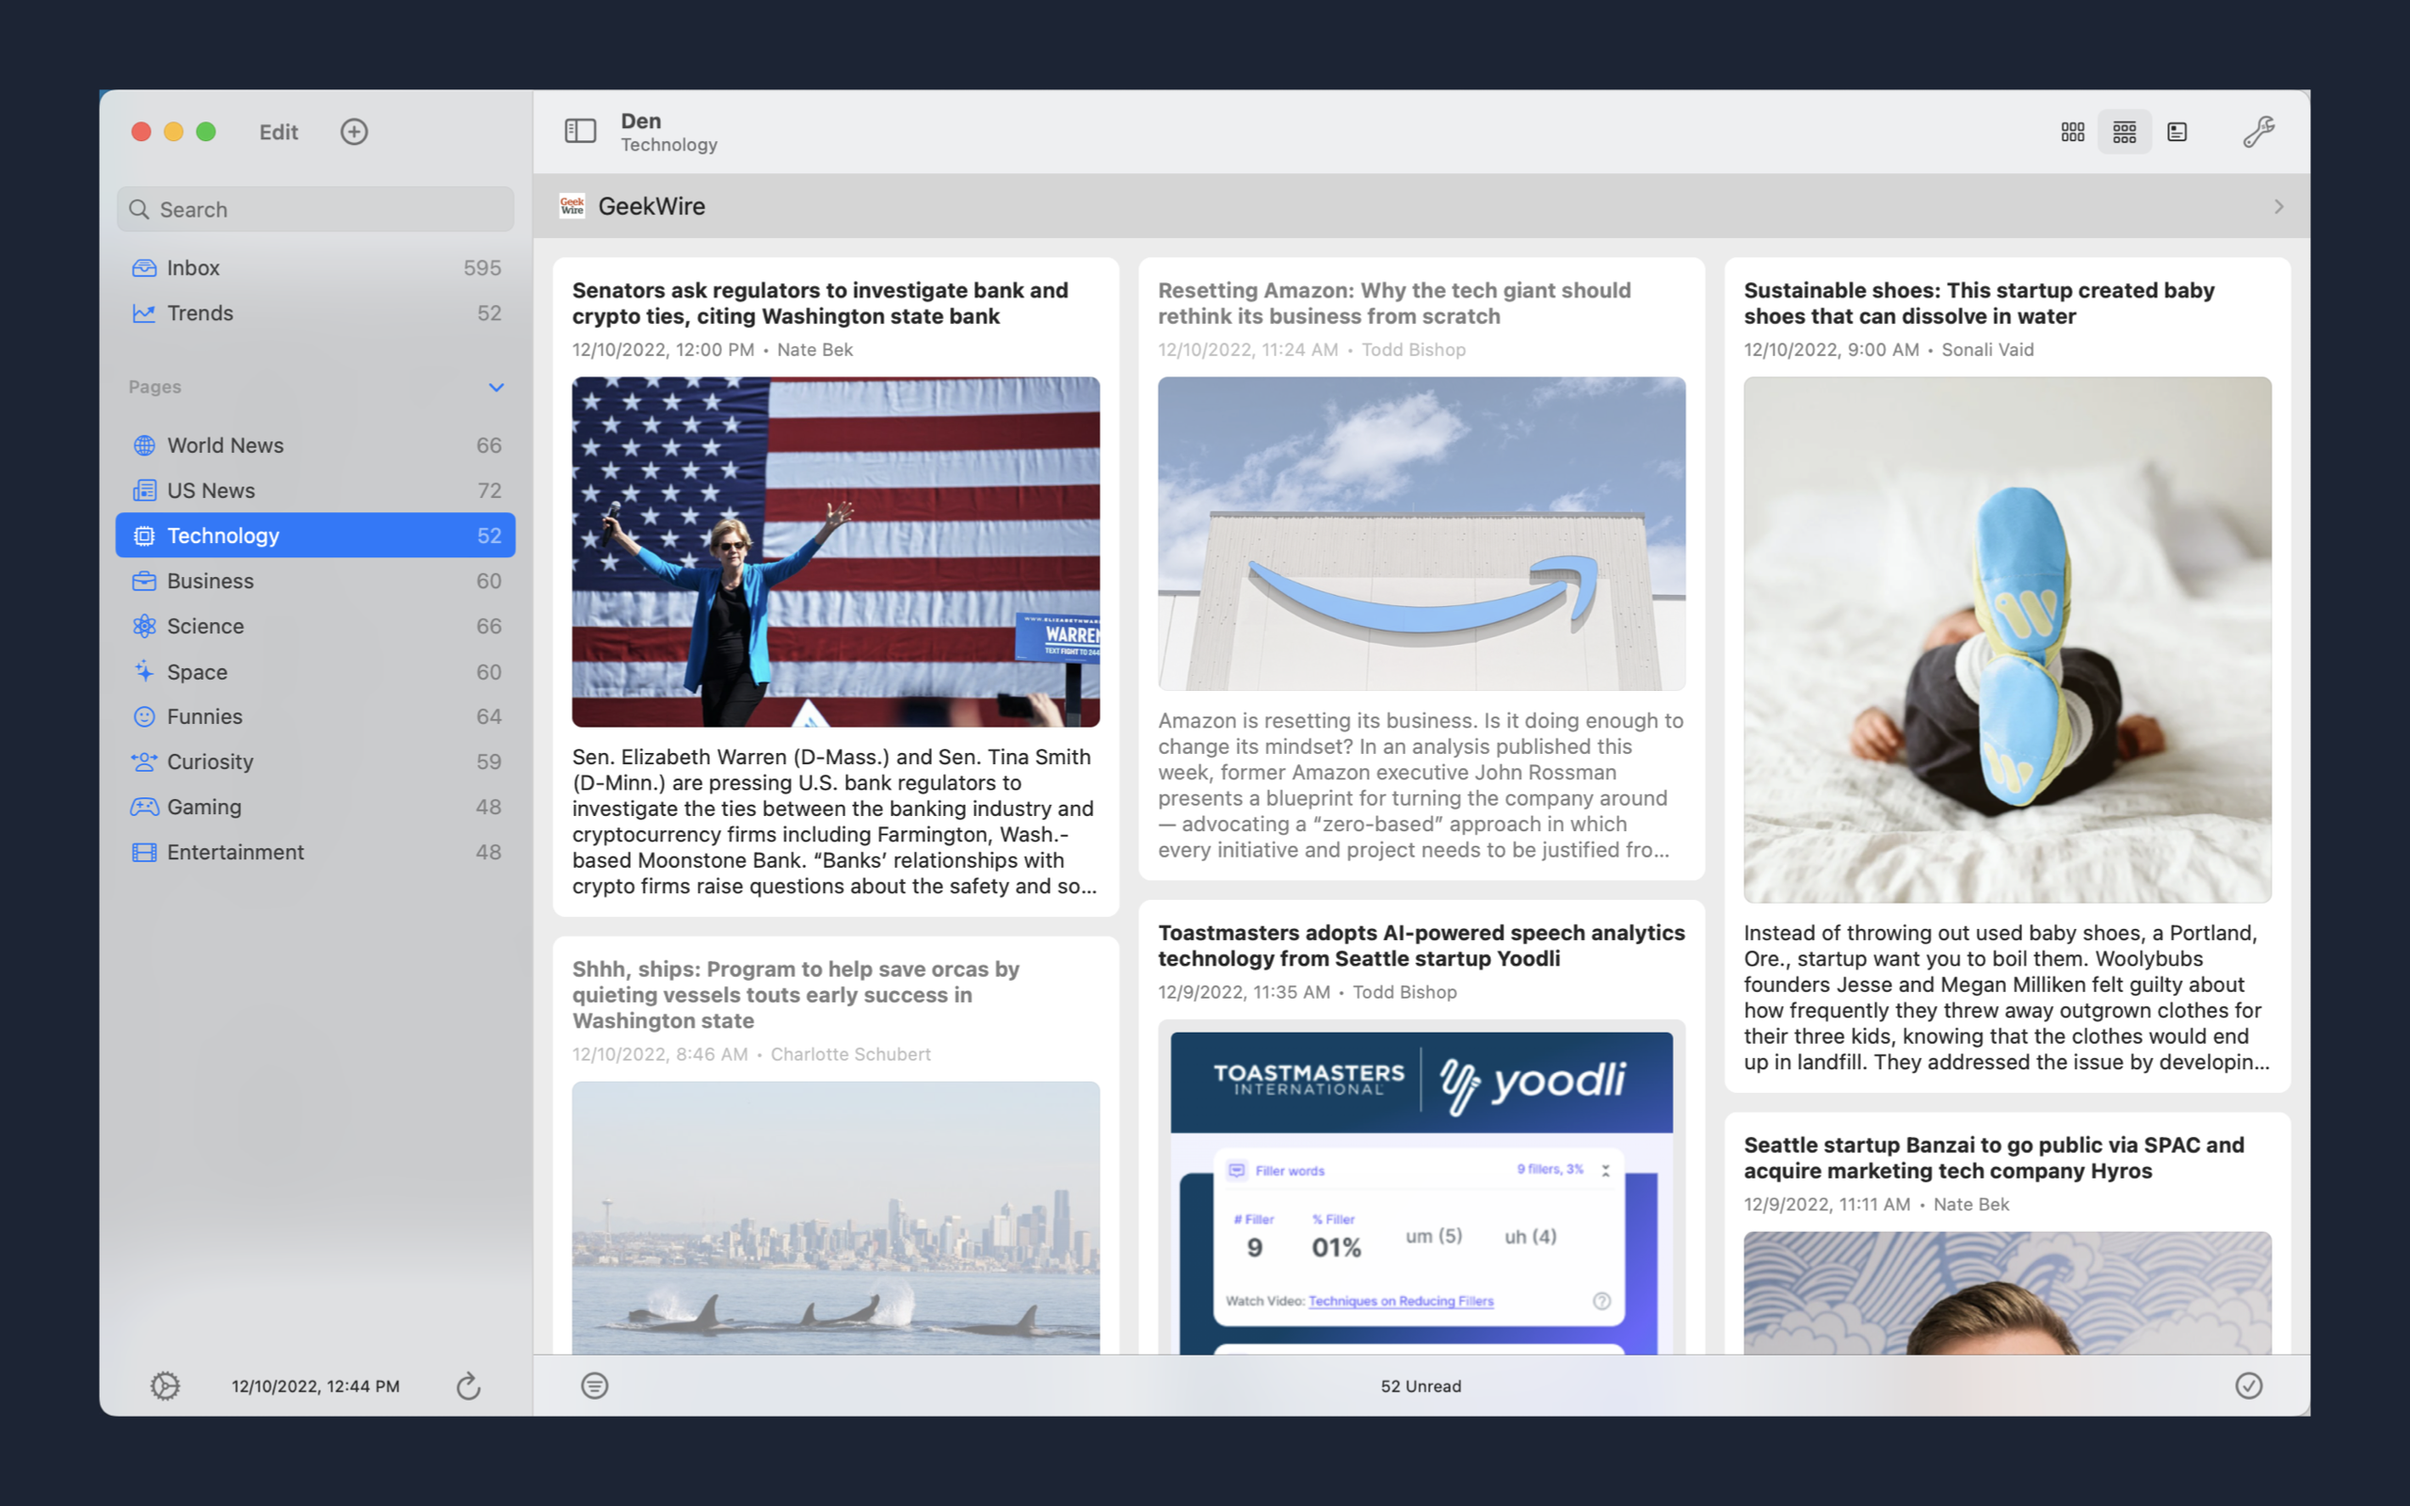
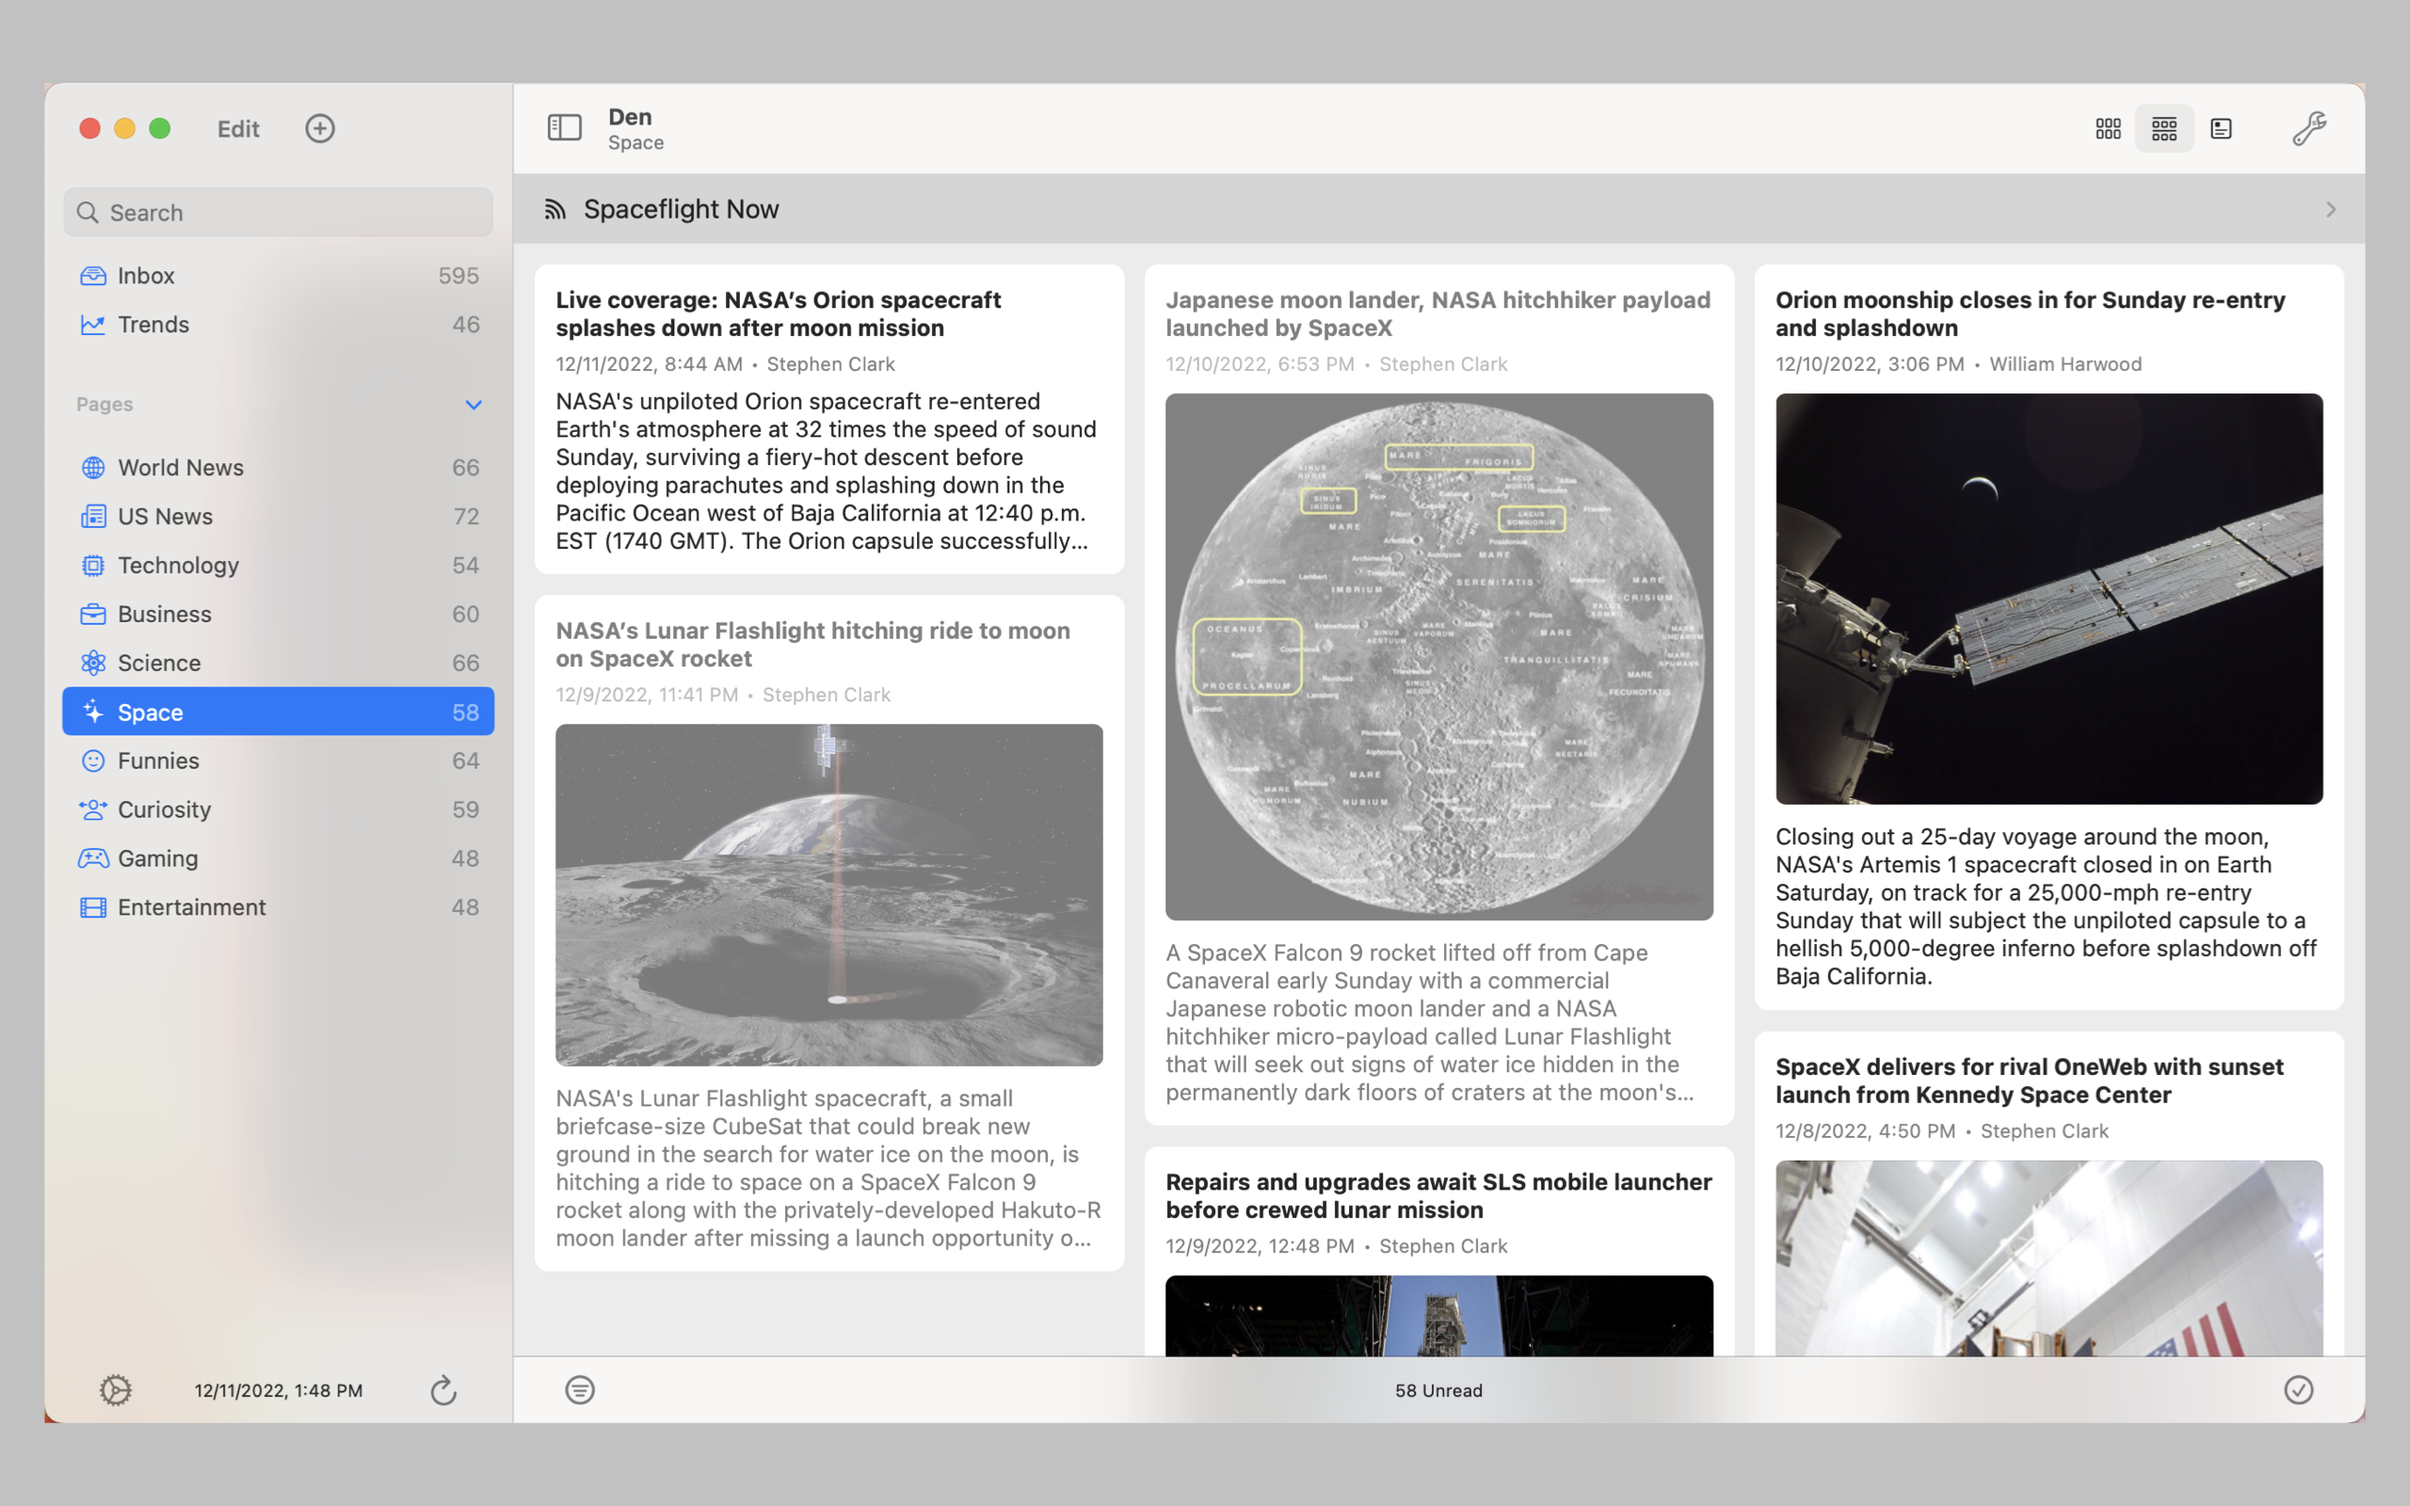
Fix profile loading.
Former-commit-id: 117aeb7d65f1e298c50d41d1e805c349e72b63ac

diff --git a/Den/Views/RootView.swift b/Den/Views/RootView.swift
@@ -35,11 +35,15 @@ struct RootView: View {
             if showCrashMessage {
                 CrashMessageView()
             } else if let profile = activeProfile {
-                ContentView(
-                    profile: profile,
-                    backgroundRefreshEnabled: $backgroundRefreshEnabled,
-                    uiStyle: $uiStyle
-                )
+                if profile.managedObjectContext == nil {
+                    Text("Profile Deleted").onAppear { loadProfile() }
+                } else {
+                    ContentView(
+                        profile: profile,
+                        backgroundRefreshEnabled: $backgroundRefreshEnabled,
+                        uiStyle: $uiStyle
+                    )
+                }
             } else {
                 VStack(spacing: 16) {
                     Spacer()
@@ -51,12 +55,8 @@ struct RootView: View {
                 .background(Color(UIColor.systemGroupedBackground))
                 .foregroundColor(Color.secondary)
                 .onAppear {
-                    if activeProfileID == nil || activeProfile?.managedObjectContext == nil {
-                        let defaultProfile = profiles
-                            .filter({$0.managedObjectContext != nil})
-                            .first ?? ProfileUtility.createDefaultProfile(context: container.viewContext)
-
-                        activeProfileID = defaultProfile.id?.uuidString
+                    if activeProfile == nil {
+                        loadProfile()
                     }
                 }
             }
@@ -71,5 +71,10 @@ struct RootView: View {
         .onReceive(NotificationCenter.default.publisher(for: .showCrashMessage, object: nil)) { _ in
             showCrashMessage = true
         }
+    }
+    
+    private func loadProfile() {
+        let profile = profiles.first ?? ProfileUtility.createDefaultProfile(context: container.viewContext)
+        activeProfileID = profile.id?.uuidString
     }
 }

diff --git a/Den/Views/Settings/ResetSectionView.swift b/Den/Views/Settings/ResetSectionView.swift
@@ -128,26 +128,20 @@ struct ResetSectionView: View {
 
     private func resetEverything() async {
         await emptyCache()
-
-        restoreUserDefaults()
-
         await container.performBackgroundTask { context in
-            let newProfile = ProfileUtility.createDefaultProfile(context: context)
-
             do {
                 let profiles = try context.fetch(Profile.fetchRequest()) as [Profile]
-                for profile in profiles where profile != newProfile {
+                for profile in profiles {
                     for feedData in profile.feedsArray.compactMap({ $0.feedData }) {
                         context.delete(feedData)
                     }
                     context.delete(profile)
                 }
                 try context.save()
-                activeProfileID = newProfile.id?.uuidString
-
             } catch {
                 CrashUtility.handleCriticalError(error as NSError)
             }
         }
+        restoreUserDefaults()
     }
 }

diff --git a/DenScreenshots/MacScreenshots.swift b/DenScreenshots/MacScreenshots.swift
@@ -21,8 +21,7 @@ class MacScreenshots: ScreenshotTestCase {
         expectation(for: enabledPredicate, evaluatedWith: profileRefreshButton, handler: nil)
         waitForExpectations(timeout: 120, handler: nil)
 
-        // Page view
-        goToPage(2)
+        goToPage(5)
 
         goToLink(1)
         goToLink(3)
@@ -64,7 +63,7 @@ class MacScreenshots: ScreenshotTestCase {
         // Search
         let searchField = app.searchFields["Search"]
         searchField.tap()
-        searchField.typeText("Apple")
+        searchField.typeText("NASA")
         searchField.typeText("\n")
         sleep(1)
         takeScreenshot(named: "08-Search")

diff --git a/DenScreenshots/PadScreenshots.swift b/DenScreenshots/PadScreenshots.swift
@@ -24,7 +24,7 @@ class PadScreenshots: ScreenshotTestCase {
         waitForExpectations(timeout: 120, handler: nil)
 
         // Page views
-        goToPage(2)
+        goToPage(5)
 
         goToLink(1)
         goToLink(3)
@@ -66,7 +66,7 @@ class PadScreenshots: ScreenshotTestCase {
         // Search
         let searchField = app.searchFields["Search"]
         searchField.tap()
-        searchField.typeText("Apple")
+        searchField.typeText("NASA")
         searchField.typeText("\n")
         sleep(1)
         takeScreenshot(named: "08-Search")

diff --git a/DenScreenshots/PhoneScreenshots.swift b/DenScreenshots/PhoneScreenshots.swift
@@ -28,7 +28,7 @@ class PhoneScreenshots: ScreenshotTestCase {
         takeScreenshot(named: "01-PageList")
 
         // Page views
-        goToPage(2)
+        goToPage(5)
 
         goToLink(1)
         goToLink(3)
@@ -79,7 +79,7 @@ class PhoneScreenshots: ScreenshotTestCase {
         // Search
         let searchField = app.searchFields["Search"]
         searchField.tap()
-        searchField.typeText("Apple")
+        searchField.typeText("NASA")
         searchField.typeText("\n")
         sleep(1)
         takeScreenshot(named: "08-Search")

diff --git a/Den/Views/Item/ItemView.swift b/Den/Views/Item/ItemView.swift
@@ -66,7 +66,8 @@ struct ItemView: View {
                         ).frame(maxWidth: .infinity)
                     }
                 }
-                .padding(28)
+                .padding(.top, 12)
+                .padding([.horizontal, .bottom], 28)
                 .frame(maxWidth: maxContentWidth)
             }
             .frame(maxWidth: .infinity)
